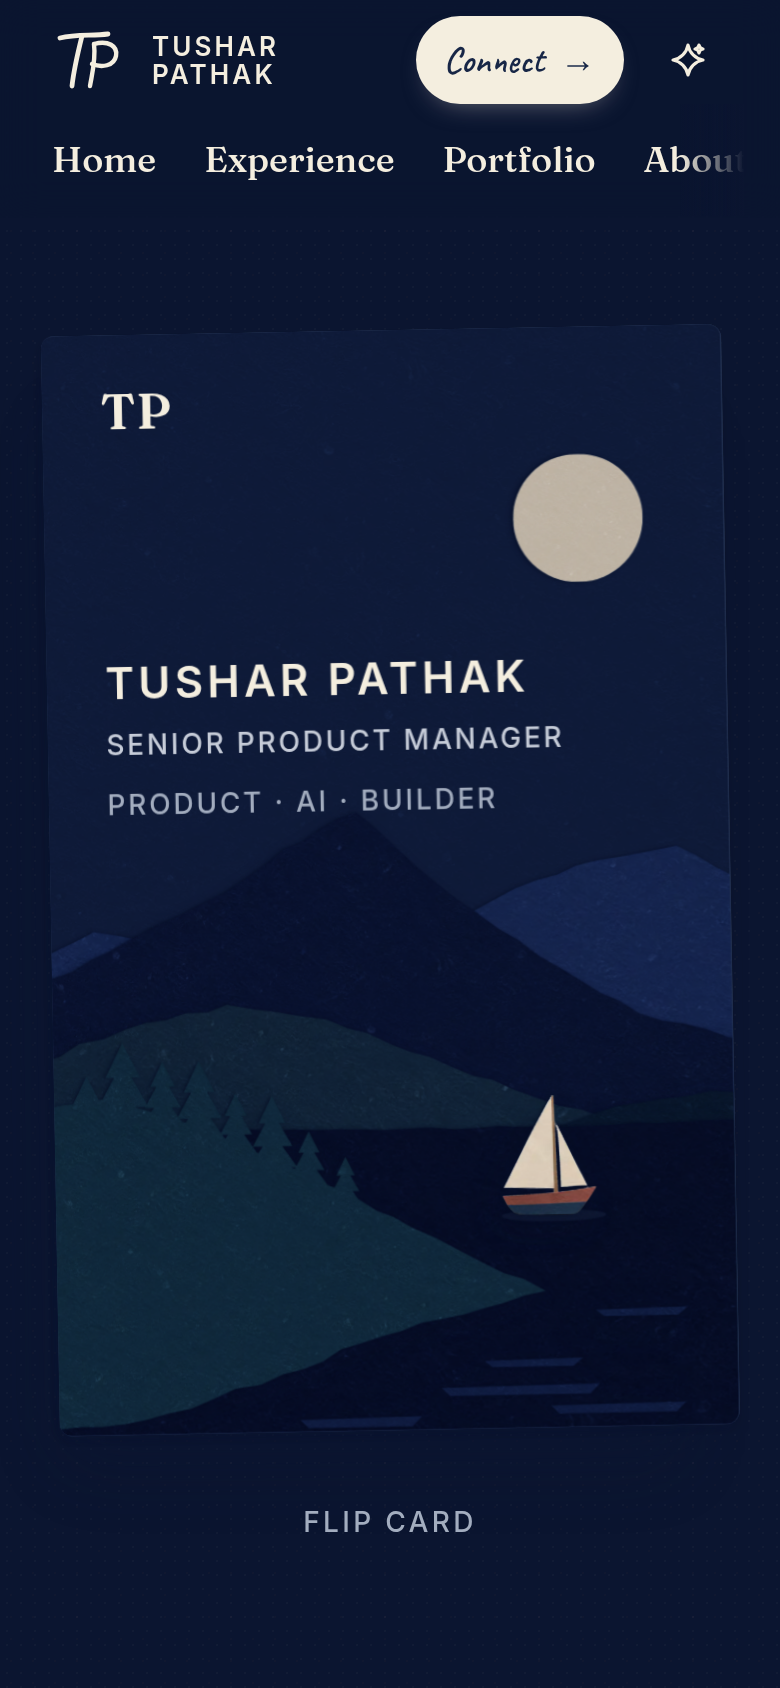
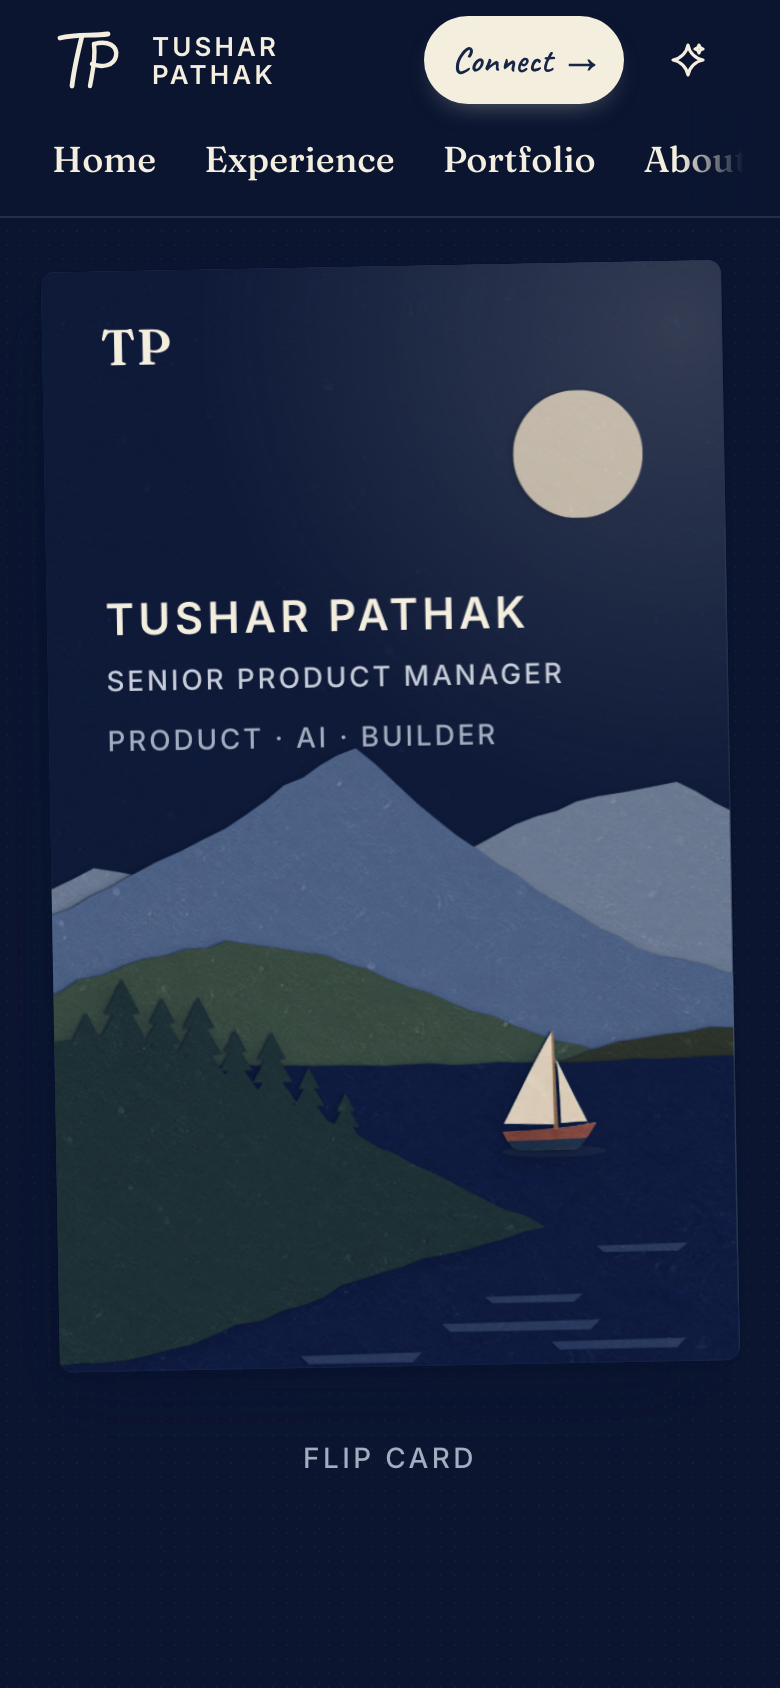
Separate the dark card front's paper layers to match the reference (TASK-146.2)
Dark front was navy-on-navy: ranges, shore and land barely separated. Re-cut the
dark recipe (role tokens + color-mix only, no hex): far/peak are steel with a
little cream and kraft for a blue-grey step, mid/shore/land are green-2/forest
over kraft or paper, ripples take the cream ink over the water. Back-edge layers
keep their original dark recipe via --c-back-far/--c-back-near. Light front and
both backs unchanged.

Measured L* on front-dark-1440.png (rendered with the Design.md 13.1 dark tokens):
far 50.4, peak 39.7, mid 29.9, shore 19.9, land 18.9, water 10.7, ripples 23.5,
moon 74.9, sky 11.5. Adjacent gaps: far-peak 10.7, peak-mid 9.8, mid-land 11.0,
mid-shore 10.0, shore-water 9.2, land-water 8.2 (all >= 8).

diff --git a/components/card/card.module.css b/components/card/card.module.css
@@ -38,16 +38,24 @@
 }
 
 :global([data-theme="dark"]) .scene {
-  /* dark is its own art direction (§15, §58), not an inversion: navy ranges, dark green land, cream moon */
+  /* dark is its own art direction (§15, §58), not an inversion: blue-grey ranges stepping lighter to darker
+     toward the viewer, muted forest-green land, navy water, cream moon. In dark the role tokens swap (navy is
+     the cream ink, forest/green-2/steel are the lifted values, kraft is a dark brown fill), and the soft-light
+     paper grain plus the layer shade pull every sheet down, so the recipes lean on steel + a little cream for
+     the ranges and on kraft (warm, desaturating) for the greens. Measured on the 1440 render, adjacent layers
+     sit 8+ L* apart: far > peak > mid > shore, land > water, ripples a faint step above the water. */
   --c-card: var(--color-ivory);
-  --c-far: color-mix(in oklab, var(--color-steel) 62%, var(--color-paper));
-  --c-peak: color-mix(in oklab, var(--color-steel) 34%, var(--color-paper));
-  --c-mid: color-mix(in oklab, var(--color-green-2) 44%, var(--color-paper));
-  --c-shore: color-mix(in oklab, var(--color-forest) 30%, var(--color-paper));
-  --c-water: color-mix(in oklab, var(--color-steel) 24%, var(--color-paper));
-  --c-land: color-mix(in oklab, var(--color-forest) 48%, var(--color-paper));
-  --c-ripple: color-mix(in oklab, var(--color-steel) 50%, var(--color-paper));
+  --c-far: color-mix(in oklab, color-mix(in oklab, var(--color-navy) 54%, var(--color-steel)) 88%, var(--color-kraft));
+  --c-peak: color-mix(in oklab, color-mix(in oklab, var(--color-navy) 29%, var(--color-steel)) 88%, var(--color-kraft));
+  --c-mid: color-mix(in oklab, var(--color-green-2) 50%, var(--color-kraft));
+  --c-shore: color-mix(in oklab, var(--color-forest) 24%, var(--color-kraft));
+  --c-water: color-mix(in oklab, var(--color-steel) 50%, var(--color-paper));
+  --c-land: color-mix(in oklab, color-mix(in oklab, var(--color-forest) 50%, var(--color-kraft)) 76%, var(--color-paper));
+  --c-ripple: color-mix(in oklab, var(--color-navy) 30%, var(--c-water));
   --c-sun: color-mix(in oklab, var(--color-navy) 88%, var(--color-kraft));
+  /* the back's edge layers keep the original dark recipe (approved); only the front was re-cut */
+  --c-back-far: color-mix(in oklab, var(--color-steel) 62%, var(--color-paper));
+  --c-back-near: color-mix(in oklab, var(--color-forest) 48%, var(--color-paper));
   --shade: var(--color-paper);
   --shade-a: 0.55;
   --lit: color-mix(in oklab, var(--color-navy) 30%, transparent);
@@ -237,8 +245,8 @@
 [data-layer="water"] .sheet { background-color: var(--c-water); background-size: 480px; background-position: 30px 60px; }
 [data-layer="land"] .sheet { background-color: var(--c-land); background-size: 280px; background-position: 200px 10px; }
 [data-layer="ripples"] .sheet { background-color: var(--c-ripple); background-size: 320px; }
-[data-layer="back-far"] .sheet { background-color: var(--c-far); background-size: 420px; }
-[data-layer="back-near"] .sheet { background-color: var(--c-land); background-size: 300px; }
+[data-layer="back-far"] .sheet { background-color: var(--c-back-far, var(--c-far)); background-size: 420px; }
+[data-layer="back-near"] .sheet { background-color: var(--c-back-near, var(--c-land)); background-size: 300px; }
 
 .sun {
   position: absolute;
